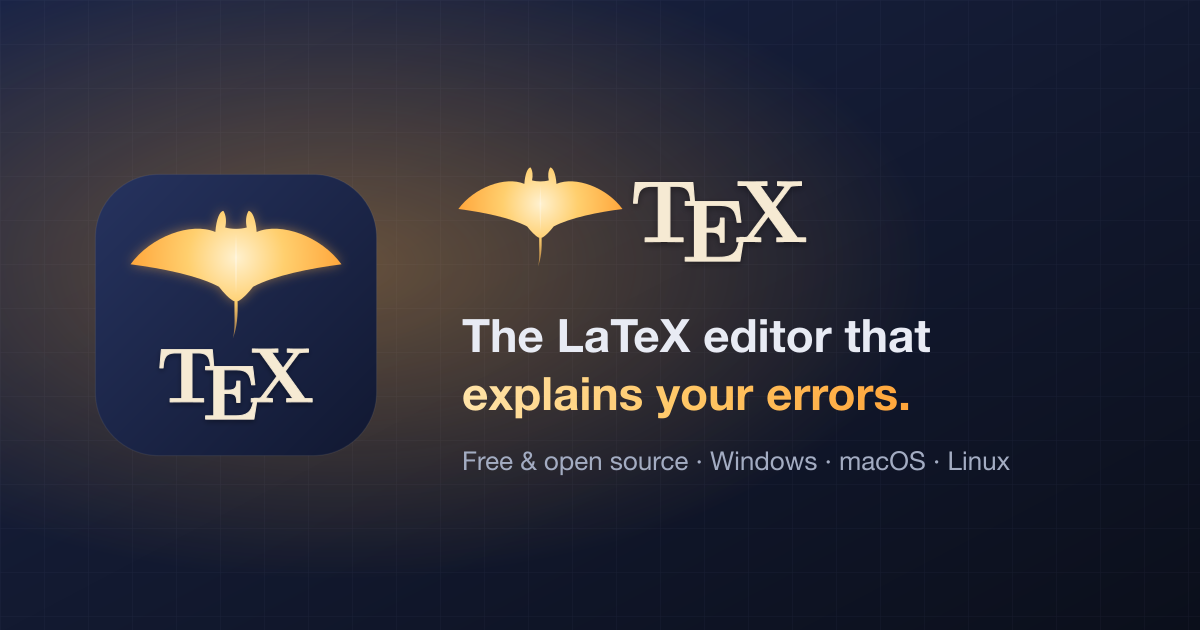
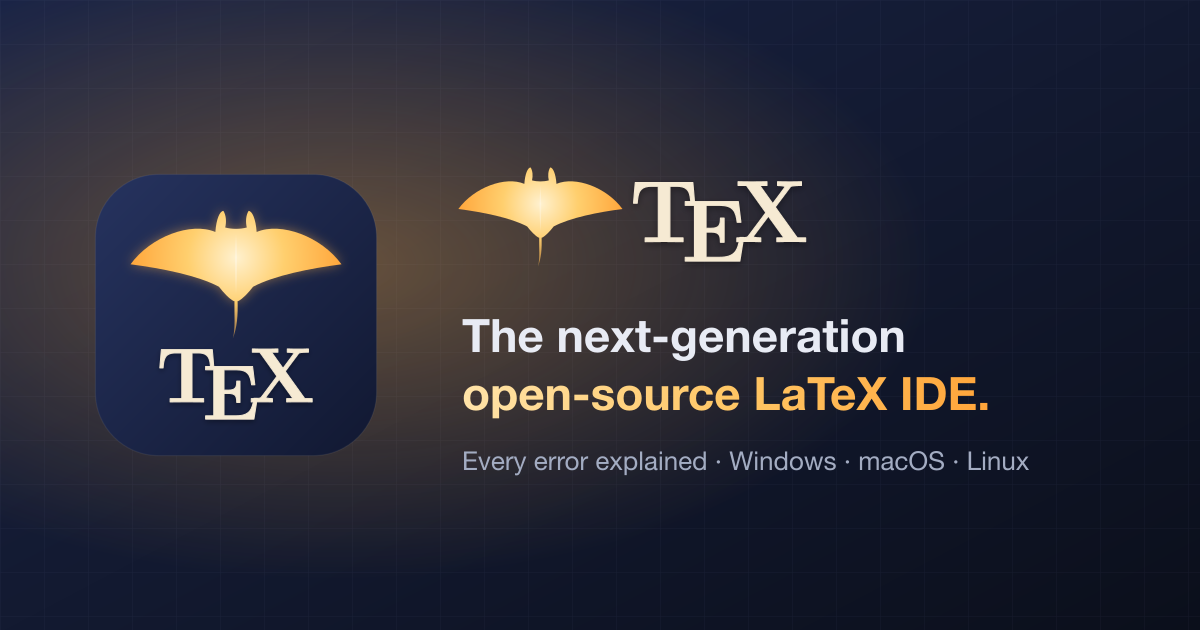
Website: the landing page puts forward a next-generation, open-source IDE

Changed region(s): [[0.37, 0.573, 0.8325, 0.6635], [0.4625, 0.4825, 0.7708, 0.573], [0.4008, 0.6937, 0.8633, 0.754]]

diff --git a/site/assets/site.css b/site/assets/site.css
@@ -596,6 +596,200 @@ body.menu-open .menu-btn span:nth-child(3) {
   }
 }
 
+/* ------------------------------------------------ new generation badge */
+@property --angle {
+  syntax: "<angle>";
+  inherits: false;
+  initial-value: 0deg;
+}
+.hero-badges {
+  flex-wrap: wrap;
+  gap: 10px;
+}
+.badge-gen {
+  display: inline-flex;
+  align-items: center;
+  gap: 6px;
+  padding: 5px 12px;
+  border-radius: 999px;
+  border: 1.5px solid transparent;
+  background: linear-gradient(var(--surface-solid), var(--surface-solid)) padding-box,
+    conic-gradient(from var(--angle), #ffe3a8, var(--accent-3), #6f8cff, #b58cff, #ffe3a8) border-box;
+  color: var(--text);
+  font-size: 0.82rem;
+  font-weight: 700;
+  letter-spacing: 0.02em;
+  white-space: nowrap;
+  animation: turn 4s linear infinite;
+  box-shadow: 0 0 24px rgba(255, 179, 71, 0.18);
+}
+.badge-gen .icon {
+  color: var(--accent);
+}
+@keyframes turn {
+  to {
+    --angle: 360deg;
+  }
+}
+.hero-badges .pill {
+  display: inline-flex;
+  align-items: center;
+  gap: 6px;
+  color: var(--accent);
+}
+.hero-badges .pill:hover {
+  text-decoration: none;
+  border-color: var(--accent);
+}
+.hero-os {
+  color: var(--muted);
+  font-weight: 600;
+}
+.hero-sub {
+  display: flex;
+  flex-wrap: wrap;
+  gap: 8px 22px;
+  margin: -6px 0 18px;
+  font-size: clamp(1.05rem, 1.7vw, 1.25rem);
+  font-weight: 650;
+  color: var(--text);
+}
+.hero-sub span {
+  display: inline-flex;
+  align-items: center;
+  gap: 7px;
+}
+.hero-sub .icon {
+  color: var(--success);
+}
+
+/* ----------------------------------------------------- new generation */
+.gen-grid {
+  display: grid;
+  grid-template-columns: repeat(3, minmax(0, 1fr));
+  gap: 18px;
+}
+.gen-card {
+  display: flex;
+  flex-direction: column;
+  gap: 10px;
+  padding: 24px;
+}
+.gen-card .feature-icon {
+  width: 40px;
+  height: 40px;
+  margin-bottom: 4px;
+}
+.gen-old {
+  margin: 0;
+  color: var(--faint);
+  font-size: 0.95rem;
+}
+.gen-old span {
+  position: relative;
+}
+/* The old way is crossed out when the card appears. */
+.gen-old span::after {
+  content: "";
+  position: absolute;
+  left: 0;
+  top: 55%;
+  height: 1.5px;
+  width: 0;
+  background: color-mix(in srgb, var(--error) 70%, transparent);
+  transition: width 0.7s var(--ease-out) calc(var(--d, 0s) + 0.35s);
+}
+.gen-card.visible .gen-old span::after,
+html:not(.js) .gen-old span::after {
+  width: 100%;
+}
+.gen-new {
+  display: flex;
+  gap: 9px;
+  margin: 0;
+  font-weight: 650;
+  font-size: 1.05rem;
+  line-height: 1.45;
+}
+.gen-new .icon {
+  margin-top: 3px;
+  color: var(--success);
+}
+
+/* -------------------------------------------------------- open source */
+.oss {
+  display: grid;
+  grid-template-columns: 1.1fr 1fr;
+  gap: clamp(28px, 5vw, 56px);
+  align-items: center;
+  padding: clamp(28px, 5vw, 56px);
+  overflow: hidden;
+  background: radial-gradient(ellipse at 0% 0%, color-mix(in srgb, var(--accent) 14%, transparent), transparent 60%), var(--surface);
+}
+.oss h2 {
+  font-size: clamp(1.7rem, 3.2vw, 2.5rem);
+}
+.oss .eyebrow {
+  gap: 7px;
+}
+.oss-badges {
+  display: flex;
+  flex-wrap: wrap;
+  gap: 8px;
+  margin: 0 0 26px;
+  padding: 0;
+  list-style: none;
+}
+.oss-badges li {
+  display: inline-flex;
+  align-items: center;
+  gap: 7px;
+  padding: 6px 12px;
+  border-radius: 999px;
+  border: 1px solid var(--border-strong);
+  background: var(--surface-solid);
+  font-size: 0.88rem;
+  font-weight: 600;
+}
+.oss-badges .icon {
+  color: var(--accent);
+}
+.oss-terminal {
+  border-radius: 14px;
+  overflow: hidden;
+  background: #0f1424;
+  border: 1px solid rgba(140, 160, 210, 0.22);
+  box-shadow: var(--shadow-lg);
+  transform: perspective(1400px) rotateY(-6deg);
+  transition: transform 0.8s var(--ease-out);
+}
+.oss:hover .oss-terminal {
+  transform: none;
+}
+.oss-terminal pre {
+  margin: 0;
+  padding: 18px 20px 20px;
+  color: #e6e9f2;
+  font: 13.5px/1.9 var(--mono);
+  overflow-x: auto;
+}
+.oss-terminal code {
+  background: none;
+  color: inherit;
+  padding: 0;
+  font-size: inherit;
+}
+.oss-terminal .prompt {
+  color: #e3a857;
+  margin-right: 6px;
+}
+.oss-terminal .out {
+  display: inline-flex;
+  align-items: center;
+  gap: 6px;
+  color: #4cc38a;
+}
+
 /* ------------------------------------------------------------ the demo */
 .demo {
   position: relative;
@@ -2207,8 +2401,18 @@ details > p:first-of-type {
   .demo {
     transform: none;
   }
-  .bento {
+  .bento,
+  .gen-grid {
     grid-template-columns: repeat(2, minmax(0, 1fr));
+  }
+  .oss {
+    grid-template-columns: 1fr;
+  }
+  .oss-terminal {
+    transform: none;
+  }
+  .hero-sub {
+    justify-content: center;
   }
   .feature.wide {
     grid-column: span 1;
@@ -2245,6 +2449,7 @@ details > p:first-of-type {
     height: 30px;
   }
   .bento,
+  .gen-grid,
   .feature-items,
   .link-cards,
   .link-cards.four,
